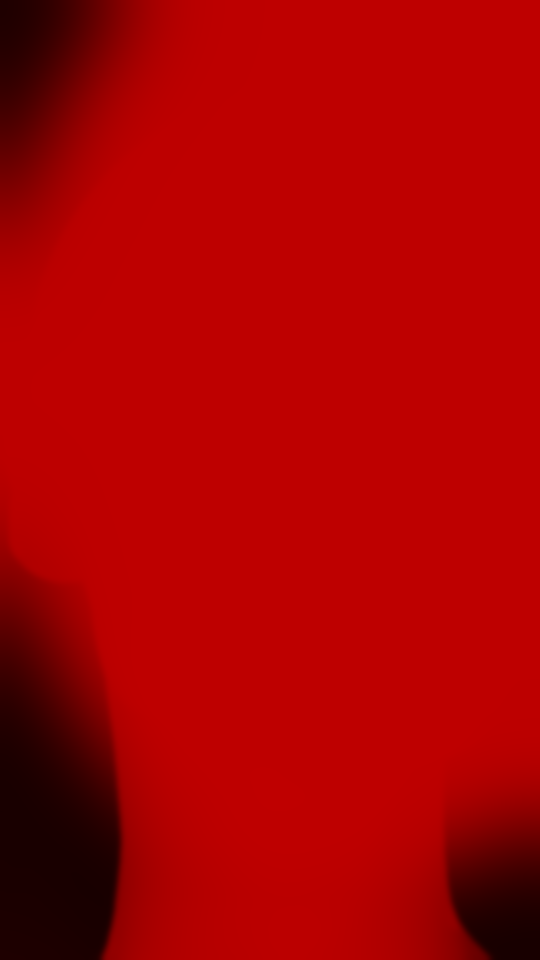
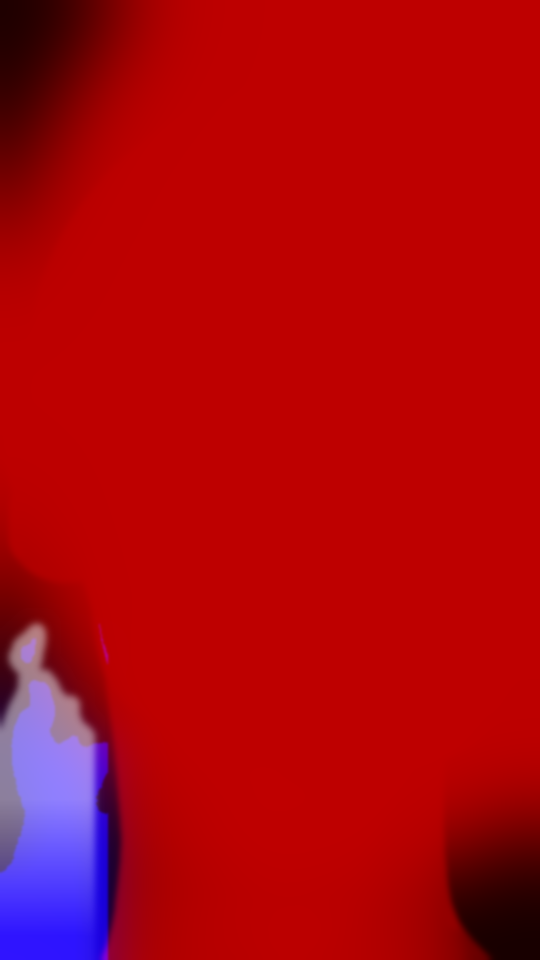
Construct 5: the opener's fire sways and flickers
Claude-Session: https://claude.ai/code/session_01SMXJ3n3hXtyYoEsmeNdtaT

Changed region(s): [[0.0, 0.625, 0.237, 1.0], [0.1778, 0.6562, 0.2074, 0.6875]]

diff --git a/construct5/index.html b/construct5/index.html
@@ -160,7 +160,7 @@ canvas.gl{position:absolute;inset:0;width:100%;height:100%;display:block;opacity
 <script>
 (()=>{
 'use strict';
-const CFG={"blocks":[{"k":"title","img":"assets/cover.jpg","map":"assets/cover-map.png","aspect":[9,16],"focus":0.745,"camcfg":null,"caps_cfg":[],"zmin":1.0,"stage":true,"fog":0.05,"script":"pan","pan":[1.0,0.5,0.5,1.08,0.5,0.46],"bed":"ruins","bedLv":0.6},{"k":"s1","img":"assets/s1.jpg","map":"assets/s1-map.png","aspect":[9,16],"focus":0.5,"camcfg":{"z":[1.02,1.08],"c0":[0.5,0.5],"c1":[0.5,0.54],"off":[0,0]},"caps_cfg":[{"id":"cap-s1-0","type":"c","auto":[0.389,0.143,0.2679]},{"id":"cap-s1-1","type":"b","auto":[0.794,0.247,0.2381],"spk":{"m":[0.4529,0.4429],"e":[0.4506,0.4185,0.0796,0.056]},"avoid":[[0.379,0.3681,0.1433,0.1008]]}],"zmin":1.02,"fog":0.05,"bed":"ruins","nogl":true,"vaud":"assets/s1-fx.mp3","vlv":0.85},{"k":"s2","img":"assets/s2.jpg","map":"assets/s2-map.png","aspect":[9,16],"focus":0.5,"camcfg":{"z":[1.02,1.08],"c0":[0.5,0.5],"c1":[0.5,0.54],"off":[0,0]},"caps_cfg":[{"id":"cap-s2-0","type":"c","auto":[0.237,0.108,0.3571]}],"zmin":1.02,"fog":0.05,"bed":"ruins","vo":"assets/vo/s2.mp3","nogl":true,"vaud":"assets/s2-fx.mp3","vlv":0.85},{"k":"s3","img":"assets/s3.jpg","map":"assets/s3-map.png","aspect":[9,16],"focus":0.488,"camcfg":{"z":[1.04,1.12],"c0":[0.47,0.5],"c1":[0.54,0.45],"off":[0.005,0.024]},"caps_cfg":[{"id":"cap-s3-0","type":"c","auto":[0.712,0.142,0.2679]}],"zmin":1.04,"fog":0.05,"bed":"ruins","vo":"assets/vo/s3.mp3"},{"k":"s4","img":"assets/s4.jpg","map":"assets/s4-map.png","aspect":[9,16],"focus":0.375,"camcfg":{"z":[1.04,1.12],"c0":[0.53,0.5],"c1":[0.392,0.479],"off":[0.005,0.024]},"caps_cfg":[{"id":"cap-s4-0","type":"c","auto":[0.821,0.086,0.2679]},{"id":"cap-s4-1","type":"b","auto":[0.571,0.298,0.2381],"spk":{"m":[0.3236,0.4887],"e":[0.2839,0.4586,0.0958,0.0675]},"avoid":[[0.1977,0.3978,0.1724,0.1215]]}],"zmin":1.04,"fog":0.05,"bed":"ruins","vo":"assets/vo/s4.mp3"},{"k":"s5","img":"assets/s5.jpg","map":"assets/s5-map.png","aspect":[9,16],"focus":0.5,"camcfg":{"z":[1.02,1.08],"c0":[0.5,0.5],"c1":[0.5,0.54],"off":[0,0]},"caps_cfg":[{"id":"cap-s5-0","type":"c","auto":[0.217,0.084,0.2679]},{"id":"cap-s5-1","type":"c","auto":[0.832,0.728,0.2679]}],"zmin":1.02,"fog":0.05,"bed":"ruins","vo":"assets/vo/s5.mp3","nogl":true,"vaud":"assets/s5-fx.mp3","vlv":0.85},{"k":"s6","img":"assets/s6.jpg","map":"assets/s6-map.png","aspect":[9,16],"focus":0.387,"camcfg":{"z":[1.04,1.12],"c0":[0.5,0.46],"c1":[0.444,0.456],"off":[0.005,0.024]},"caps_cfg":[{"id":"cap-s6-0","type":"c","auto":[0.784,0.105,0.2679]}],"zmin":1.04,"bed":"shore","vo":"assets/vo/s6.mp3"},{"k":"s7","img":"assets/s7.jpg","map":"assets/s7-map.png","aspect":[9,16],"focus":0.663,"camcfg":{"z":[1.04,1.12],"c0":[0.47,0.5],"c1":[0.54,0.45],"off":[0.005,0.024]},"caps_cfg":[{"id":"cap-s7-0","type":"c","auto":[0.82,0.124,0.2976]}],"zmin":1.04,"fog":0.05,"bed":"ruins"},{"k":"s8","img":"assets/s8.jpg","map":"assets/s8-map.png","aspect":[9,16],"focus":0.5,"camcfg":{"z":[1.02,1.08],"c0":[0.5,0.5],"c1":[0.5,0.54],"off":[0,0]},"caps_cfg":[{"id":"cap-s8-0","type":"c","auto":[0.784,0.127,0.3125]}],"zmin":1.02,"rain":0,"bed":"squall","vo":"assets/vo/s8.mp3","nogl":true,"vaud":"assets/s8-fx.mp3","vlv":0.85},{"k":"s9","img":"assets/s9.jpg","map":"assets/s9-map.png","aspect":[9,16],"focus":0.5,"camcfg":{"z":[1.02,1.08],"c0":[0.5,0.5],"c1":[0.5,0.54],"off":[0,0]},"caps_cfg":[{"id":"cap-s9-0","type":"c","auto":[0.723,0.137,0.2679]}],"zmin":1.02,"fog":0.05,"bed":"ruins","nogl":true,"vaud":"assets/s9-fx.mp3","vlv":0.85},{"k":"s10","img":"assets/s10.jpg","map":"assets/s10-map.png","aspect":[9,16],"focus":0.5,"camcfg":{"z":[1.02,1.08],"c0":[0.5,0.5],"c1":[0.5,0.54],"off":[0,0]},"caps_cfg":[{"id":"cap-s10-0","type":"c","auto":[0.27,0.8,0.2976]}],"zmin":1.02,"dust":[0.1,0.0,0.8,0.5],"bed":"camp","nogl":true,"vaud":"assets/s10-fx.mp3","vlv":0.85},{"k":"s11","img":"assets/s11.jpg","map":"assets/s11-map.png","aspect":[9,16],"focus":0.095,"camcfg":{"z":[1.04,1.12],"c0":[0.47,0.5],"c1":[0.318,0.46],"off":[0.005,0.024]},"caps_cfg":[{"id":"cap-s11-0","type":"b","auto":[0.751,0.18,0.2381],"spk":{"m":[0.4981,0.2504],"e":[0.5008,0.2195,0.0725,0.0531]},"avoid":[[0.4355,0.1717,0.1305,0.0956],[0.1295,0.333,0.119,0.0954],[0.0613,0.3611,0.1485,0.1199]]},{"id":"cap-s11-1","type":"b","auto":[0.393,0.762,0.2381],"spk":{"m":[0.55,0.9],"e":[0.58,0.9,0.08,0.05]},"avoid":[[0.4355,0.1717,0.1305,0.0956],[0.1295,0.333,0.119,0.0954],[0.0613,0.3611,0.1485,0.1199]]}],"zmin":1.04,"dust":[0.1,0.0,0.8,0.5],"bed":"camp"},{"k":"s12","img":"assets/s12.jpg","map":"assets/s12-map.png","aspect":[9,16],"focus":0.568,"camcfg":{"z":[1.04,1.12],"c0":[0.53,0.5],"c1":[0.576,0.46],"off":[0.005,0.024]},"caps_cfg":[{"id":"cap-s12-0","type":"b","auto":[0.37,0.24,0.2679],"spk":{"m":[0.6159,0.4678],"e":[0.6522,0.4195,0.1189,0.1013]},"avoid":[[0.5452,0.3283,0.214,0.1823]]}],"zmin":1.04,"dust":[0.1,0.0,0.8,0.5],"bed":"camp"},{"k":"s13","img":"assets/s13.jpg","map":"assets/s13-map.png","aspect":[9,16],"focus":0.561,"camcfg":{"z":[1.04,1.12],"c0":[0.5,0.5],"c1":[0.416,0.539],"off":[0.005,0.024]},"caps_cfg":[{"id":"cap-s13-0","type":"b","auto":[0.557,0.564,0.2381],"spk":{"m":[0.357,0.5922],"e":[0.3311,0.5774,0.0591,0.0408]},"avoid":[[0.5794,0.1248,0.0805,0.0614],[0.2779,0.5407,0.1064,0.0734]]},{"id":"cap-s13-1","type":"b","auto":[0.386,0.14,0.2827],"spk":{"m":[0.6145,0.1739],"e":[0.6196,0.1555,0.0447,0.0341]},"avoid":[[0.5794,0.1248,0.0805,0.0614],[0.2779,0.5407,0.1064,0.0734]]}],"zmin":1.04,"dust":[0.1,0.0,0.8,0.5],"bed":"camp"},{"k":"s14","img":"assets/s14.jpg","map":"assets/s14-map.png","aspect":[9,16],"focus":0.5,"camcfg":{"z":[1.02,1.08],"c0":[0.5,0.5],"c1":[0.5,0.54],"off":[0,0]},"caps_cfg":[{"id":"cap-s14-0","type":"c","auto":[0.207,0.12,0.2679]}],"zmin":1.02,"fog":0.05,"bed":"ruins","nogl":true,"vaud":"assets/s14-fx.mp3","vlv":0.85},{"k":"s15","img":"assets/s15.jpg","map":"assets/s15-map.png","aspect":[9,16],"focus":0.5,"camcfg":{"z":[1.02,1.08],"c0":[0.5,0.5],"c1":[0.5,0.54],"off":[0,0]},"caps_cfg":[{"id":"cap-s15-0","type":"c","auto":[0.207,0.076,0.2679]}],"zmin":1.02,"fog":0.05,"bed":"dream","nogl":true,"vaud":"assets/s15-fx.mp3","vlv":0.85},{"k":"s16","img":"assets/s16.jpg","map":"assets/s16-map.png","aspect":[9,16],"focus":0.451,"camcfg":{"z":[1.04,1.12],"c0":[0.53,0.5],"c1":[0.714,0.445],"off":[0.005,0.024]},"caps_cfg":[{"id":"cap-s16-0","type":"b","auto":[0.376,0.097,0.2381],"spk":{"m":[0.5687,0.162],"e":[0.5746,0.1519,0.0274,0.019]},"avoid":[[0.5499,0.1348,0.0493,0.0342],[0.9003,0.3722,0.0542,0.0344]]}],"zmin":1.04,"fog":0.05,"bed":"ruins","vo":"assets/vo/s16.mp3"},{"k":"s17","img":"assets/s17.jpg","map":"assets/s17-map.png","aspect":[9,16],"focus":0.442,"camcfg":{"z":[1.04,1.12],"c0":[0.5,0.5],"c1":[0.504,0.386],"off":[0.005,0.024]},"caps_cfg":[{"id":"cap-s17-0","type":"b","auto":[0.761,0.224,0.3125],"spk":{"m":[0.516,0.2853],"e":[0.5074,0.2724,0.0379,0.0282]},"avoid":[[0.4733,0.247,0.0682,0.0508]]}],"zmin":1.04,"fog":0.05,"bed":"ruins","vo":"assets/vo/s17.mp3"},{"k":"s18","img":"assets/s18.jpg","map":"assets/s18-map.png","aspect":[9,16],"focus":0.26,"camcfg":{"z":[1.04,1.12],"c0":[0.5,0.46],"c1":[0.383,0.378],"off":[0.005,0.024]},"caps_cfg":[{"id":"cap-s18-0","type":"b","auto":[0.52,0.2,0.2381],"spk":{"m":[0.258,0.207],"e":[0.258,0.236,0.055,0.032]},"avoid":[[0.2269,0.2262,0.0788,0.058],[0.5942,0.2671,0.0749,0.0567]]},{"id":"cap-s18-1","type":"b","auto":[0.798,0.46,0.2381],"spk":{"m":[0.6096,0.3101],"e":[0.6316,0.2955,0.0416,0.0315]},"avoid":[[0.2269,0.2262,0.0788,0.058],[0.5942,0.2671,0.0749,0.0567]]}],"zmin":1.04,"fog":0.05,"bed":"ruins"},{"k":"s19","img":"assets/s19.jpg","map":"assets/s19-map.png","aspect":[9,16],"focus":0.797,"camcfg":{"z":[1.04,1.12],"c0":[0.47,0.5],"c1":[0.54,0.45],"off":[0.005,0.024]},"caps_cfg":[{"id":"cap-s19-0","type":"c","auto":[0.735,0.298,0.2679]}],"zmin":1.04,"bed":"shore"},{"k":"s20","img":"assets/s20.jpg","map":"assets/s20-map.png","aspect":[9,16],"focus":0.304,"camcfg":{"z":[1.04,1.12],"c0":[0.53,0.5],"c1":[0.373,0.46],"off":[0.005,0.024]},"caps_cfg":[{"id":"cap-s20-0","type":"c","auto":[0.27,0.092,0.3274]},{"id":"cap-s20-1","type":"b","auto":[0.258,0.278,0.3571],"spk":{"m":[0.2662,0.4434],"e":[0.246,0.4208,0.0435,0.0432]},"avoid":[[0.2069,0.3819,0.0783,0.0778]]}],"zmin":1.04,"fog":0.05,"bed":"ruins"},{"k":"s21","img":"assets/s21.jpg","map":"assets/s21-map.png","aspect":[9,16],"focus":0.636,"camcfg":{"z":[1.04,1.12],"c0":[0.5,0.5],"c1":[0.5,0.44],"off":[0.005,0.024]},"caps_cfg":[{"id":"cap-s21-0","type":"c","auto":[0.235,0.092,0.2679]}],"zmin":1.04,"fog":0.05,"bed":"ruins","vo":"assets/vo/s21.mp3"},{"k":"s22","img":"assets/s22.jpg","map":"assets/s22-map.png","aspect":[9,16],"focus":0.271,"camcfg":{"z":[1.04,1.12],"c0":[0.5,0.46],"c1":[0.5,0.56],"off":[0.005,0.024]},"caps_cfg":[{"id":"cap-s22-0","type":"b","auto":[0.218,0.164,0.2381],"spk":{"m":[0.441,0.226],"e":[0.4318,0.2201,0.0199,0.0153]}},{"id":"cap-s22-1","type":"b","auto":[0.774,0.125,0.2679],"spk":{"m":[0.59,0.2264],"e":[0.5977,0.2187,0.0226,0.0155]}}],"zmin":1.04,"fog":0.05,"bed":"ruins","vo":"assets/vo/s22.mp3"},{"k":"s23","img":"assets/s23.jpg","map":"assets/s23-map.png","aspect":[9,16],"focus":0.744,"camcfg":{"z":[1.04,1.12],"c0":[0.47,0.5],"c1":[0.54,0.45],"off":[0.005,0.024]},"caps_cfg":[{"id":"cap-s23-0","type":"c","auto":[0.21,0.13,0.2679]}],"zmin":1.04,"bed":"shore"},{"k":"s24","img":"assets/s24.jpg","map":"assets/s24-map.png","aspect":[9,16],"focus":0.605,"camcfg":{"z":[1.04,1.12],"c0":[0.53,0.5],"c1":[0.46,0.47],"off":[0.005,0.024]},"caps_cfg":[{"id":"cap-s24-0","type":"c","auto":[0.24,0.141,0.2679]}],"zmin":1.04,"fog":0.05,"bed":"ruins"},{"k":"s25","img":"assets/s25.jpg","map":"assets/s25-map.png","aspect":[9,16],"focus":0.852,"camcfg":{"z":[1.04,1.12],"c0":[0.5,0.5],"c1":[0.592,0.455],"off":[0.005,0.024]},"caps_cfg":[{"id":"cap-s25-0","type":"b","auto":[0.464,0.202,0.2381],"spk":{"m":[0.6266,0.4649],"e":[0.6839,0.4099,0.1346,0.1133]},"avoid":[[0.5628,0.3079,0.2423,0.2039]]}],"zmin":1.04,"fog":0.05,"bed":"ruins"},{"k":"s26","img":"assets/s26.jpg","map":"assets/s26-map.png","aspect":[9,16],"focus":0.792,"camcfg":{"z":[1.04,1.12],"c0":[0.5,0.46],"c1":[0.5,0.56],"off":[0.005,0.024]},"caps_cfg":[{"id":"cap-s26-0","type":"c","auto":[0.29,0.118,0.2679]}],"zmin":1.04,"bed":"shore"},{"k":"s27","img":"assets/s27.jpg","map":"assets/s27-map.png","aspect":[9,16],"focus":0.715,"camcfg":{"z":[1.04,1.12],"c0":[0.47,0.5],"c1":[0.54,0.45],"off":[0.005,0.024]},"caps_cfg":[{"id":"cap-s27-0","type":"c","auto":[0.523,0.219,0.2679]}],"zmin":1.04,"fog":0.05,"bed":"ruins"},{"k":"s28","img":"assets/s28.jpg","map":"assets/s28-map.png","aspect":[9,16],"focus":0.453,"camcfg":{"z":[1.04,1.12],"c0":[0.53,0.5],"c1":[0.46,0.47],"off":[0.005,0.024]},"caps_cfg":[{"id":"cap-s28-0","type":"b","auto":[0.524,0.215,0.2381],"spk":{"m":[0.3916,0.2648],"e":[0.384,0.2566,0.0233,0.0171]},"avoid":[[0.2233,0.234,0.0522,0.0376]]},{"id":"cap-s28-1","type":"b","auto":[0.254,0.12,0.2381],"spk":{"m":[0.2606,0.2621],"e":[0.2494,0.2528,0.029,0.0209]},"avoid":[[0.2233,0.234,0.0522,0.0376]]}],"zmin":1.04,"bed":"shore"},{"k":"s29","img":"assets/s29.jpg","map":"assets/s29-map.png","aspect":[9,16],"focus":0.889,"camcfg":{"z":[1.04,1.12],"c0":[0.5,0.5],"c1":[0.411,0.58],"off":[0.005,0.024]},"caps_cfg":[{"id":"cap-s29-0","type":"c","auto":[0.239,0.133,0.2679]},{"id":"cap-s29-1","type":"b","auto":[0.585,0.224,0.2381],"spk":{"m":[0.681,0.3442],"e":[0.6935,0.3252,0.048,0.0365]},"avoid":[[0.6503,0.2923,0.0864,0.0657],[0.2452,0.6053,0.1523,0.1087]]},{"id":"cap-s29-2","type":"b","auto":[0.684,0.69,0.2381],"spk":{"m":[0.339,0.6837],"e":[0.3213,0.6597,0.0846,0.0604]},"avoid":[[0.6503,0.2923,0.0864,0.0657],[0.2452,0.6053,0.1523,0.1087]]}],"zmin":1.04,"fog":0.05,"bed":"ruins"},{"k":"s30","img":"assets/s30.jpg","map":"assets/s30-map.png","aspect":[9,16],"focus":0.325,"camcfg":{"z":[1.04,1.12],"c0":[0.5,0.46],"c1":[0.618,0.452],"off":[0.005,0.024]},"caps_cfg":[{"id":"cap-s30-0","type":"b","auto":[0.815,0.289,0.2679],"spk":{"m":[0.7056,0.4351],"e":[0.7367,0.4041,0.0821,0.0582]},"avoid":[[0.6628,0.3517,0.1478,0.1048]]}],"zmin":1.04,"fog":0.05,"bed":"ruins"},{"k":"s31","img":"assets/s31.jpg","map":"assets/s31-map.png","aspect":[9,16],"focus":0.614,"camcfg":{"z":[1.04,1.12],"c0":[0.47,0.5],"c1":[0.54,0.45],"off":[0.005,0.024]},"caps_cfg":[{"id":"cap-s31-0","type":"c","auto":[0.297,0.157,0.2679]}],"zmin":1.04,"bed":"shore"},{"k":"s32","img":"assets/s32.jpg","map":"assets/s32-map.png","aspect":[9,16],"focus":0.724,"camcfg":{"z":[1.04,1.12],"c0":[0.53,0.5],"c1":[0.438,0.335],"off":[0.005,0.024]},"caps_cfg":[{"id":"cap-s32-0","type":"c","auto":[0.652,0.688,0.2679]},{"id":"cap-s32-1","type":"b","auto":[0.6,0.316,0.2976],"spk":{"m":[0.3869,0.1829],"e":[0.3766,0.1692,0.0497,0.0353]},"avoid":[[0.3319,0.1374,0.0895,0.0635]]}],"zmin":1.04,"bed":"shore"},{"k":"s33","img":"assets/s33.jpg","map":"assets/s33-map.png","aspect":[9,16],"focus":0.548,"camcfg":{"z":[1.04,1.12],"c0":[0.5,0.5],"c1":[0.58,0.352],"off":[0.005,0.024]},"caps_cfg":[{"id":"cap-s33-0","type":"c","auto":[0.305,0.071,0.2679]}],"zmin":1.04,"bed":"shore"},{"k":"s34","img":"assets/s34.jpg","map":"assets/s34-map.png","aspect":[9,16],"focus":0.715,"camcfg":{"z":[1.04,1.12],"c0":[0.5,0.46],"c1":[0.569,0.605],"off":[0.005,0.024]},"caps_cfg":[{"id":"cap-s34-0","type":"c","auto":[0.196,0.081,0.2679]},{"id":"cap-s34-1","type":"b","auto":[0.626,0.093,0.2381],"spk":{"m":[0.8249,0.1784],"e":[0.8208,0.1544,0.0537,0.0409]},"avoid":[[0.7725,0.1176,0.0967,0.0736],[0.5603,0.6561,0.1541,0.1073],[0.3065,0.0035,0.079,0.0502]]},{"id":"cap-s34-2","type":"b","auto":[0.452,0.551,0.2381],"spk":{"m":[0.6419,0.7395],"e":[0.6373,0.7097,0.0856,0.0596]},"avoid":[[0.7725,0.1176,0.0967,0.0736],[0.5603,0.6561,0.1541,0.1073],[0.3065,0.0035,0.079,0.0502]]}],"zmin":1.04,"bed":"shore"},{"k":"s35","img":"assets/s35.jpg","map":"assets/s35-map.png","aspect":[9,16],"focus":0.553,"camcfg":{"z":[1.04,1.12],"c0":[0.47,0.5],"c1":[0.413,0.395],"off":[0.005,0.024]},"caps_cfg":[{"id":"cap-s35-0","type":"b","auto":[0.625,0.223,0.2381],"spk":{"m":[0.6531,0.3757],"e":[0.6611,0.3685,0.0212,0.0145]},"avoid":[[0.2938,0.2651,0.065,0.0502]]},{"id":"cap-s35-1","type":"b","auto":[0.433,0.403,0.2381],"spk":{"m":[0.3372,0.3014],"e":[0.3263,0.2902,0.0361,0.0279]},"avoid":[[0.2938,0.2651,0.065,0.0502]]},{"id":"cap-s35-2","type":"c","auto":[0.269,0.105,0.3571]}],"zmin":1.04,"fog":0.05,"bed":"ruins"},{"k":"s36","img":"assets/s36.jpg","map":"assets/s36-map.png","aspect":[9,16],"focus":0.422,"camcfg":{"z":[1.04,1.12],"c0":[0.53,0.5],"c1":[0.351,0.34],"off":[0.005,0.024]},"caps_cfg":[{"id":"cap-s36-0","type":"b","auto":[0.469,0.105,0.2679],"spk":{"m":[0.1926,0.208],"e":[0.2025,0.1798,0.0541,0.046]},"avoid":[[0.1538,0.1384,0.0974,0.0828],[0.6461,0.4126,0.0779,0.0554]]},{"id":"cap-s36-1","type":"b","auto":[0.802,0.278,0.2679],"spk":{"m":[0.6753,0.4526],"e":[0.6851,0.4403,0.0433,0.0308]},"avoid":[[0.1538,0.1384,0.0974,0.0828],[0.6461,0.4126,0.0779,0.0554]]}],"zmin":1.04,"fog":0.05,"bed":"ruins"},{"k":"s37","img":"assets/s37.jpg","map":"assets/s37-map.png","aspect":[9,16],"focus":0.77,"camcfg":{"z":[1.04,1.12],"c0":[0.5,0.5],"c1":[0.577,0.458],"off":[0.005,0.024]},"caps_cfg":[{"id":"cap-s37-0","type":"b","auto":[0.736,0.277,0.2381],"spk":{"m":[0.6466,0.4338],"e":[0.6548,0.4162,0.0459,0.0358]},"avoid":[[0.6135,0.384,0.0826,0.0644]]}],"zmin":1.04,"bed":"alley"}],"fsk":{"c":1.25,"b":1.08}};
+const CFG={"blocks":[{"k":"title","img":"assets/cover.jpg","map":"assets/cover-map.png","aspect":[9,16],"focus":0.745,"camcfg":null,"caps_cfg":[],"zmin":1.0,"stage":true,"gmode":3,"fog":0.05,"script":"pan","pan":[1.0,0.5,0.5,1.08,0.5,0.46],"gtint":[1.0,0.55,0.2],"bed":"ruins","bedLv":0.6,"fire":1},{"k":"s1","img":"assets/s1.jpg","map":"assets/s1-map.png","aspect":[9,16],"focus":0.5,"camcfg":{"z":[1.02,1.08],"c0":[0.5,0.5],"c1":[0.5,0.54],"off":[0,0]},"caps_cfg":[{"id":"cap-s1-0","type":"c","auto":[0.389,0.143,0.2679]},{"id":"cap-s1-1","type":"b","auto":[0.794,0.247,0.2381],"spk":{"m":[0.4529,0.4429],"e":[0.4506,0.4185,0.0796,0.056]},"avoid":[[0.379,0.3681,0.1433,0.1008]]}],"zmin":1.02,"fog":0.05,"bed":"ruins","nogl":true,"vaud":"assets/s1-fx.mp3","vlv":0.85},{"k":"s2","img":"assets/s2.jpg","map":"assets/s2-map.png","aspect":[9,16],"focus":0.5,"camcfg":{"z":[1.02,1.08],"c0":[0.5,0.5],"c1":[0.5,0.54],"off":[0,0]},"caps_cfg":[{"id":"cap-s2-0","type":"c","auto":[0.237,0.108,0.3571]}],"zmin":1.02,"fog":0.05,"bed":"ruins","vo":"assets/vo/s2.mp3","nogl":true,"vaud":"assets/s2-fx.mp3","vlv":0.85},{"k":"s3","img":"assets/s3.jpg","map":"assets/s3-map.png","aspect":[9,16],"focus":0.488,"camcfg":{"z":[1.04,1.12],"c0":[0.47,0.5],"c1":[0.54,0.45],"off":[0.005,0.024]},"caps_cfg":[{"id":"cap-s3-0","type":"c","auto":[0.712,0.142,0.2679]}],"zmin":1.04,"fog":0.05,"bed":"ruins","vo":"assets/vo/s3.mp3"},{"k":"s4","img":"assets/s4.jpg","map":"assets/s4-map.png","aspect":[9,16],"focus":0.375,"camcfg":{"z":[1.04,1.12],"c0":[0.53,0.5],"c1":[0.392,0.479],"off":[0.005,0.024]},"caps_cfg":[{"id":"cap-s4-0","type":"c","auto":[0.821,0.086,0.2679]},{"id":"cap-s4-1","type":"b","auto":[0.571,0.298,0.2381],"spk":{"m":[0.3236,0.4887],"e":[0.2839,0.4586,0.0958,0.0675]},"avoid":[[0.1977,0.3978,0.1724,0.1215]]}],"zmin":1.04,"fog":0.05,"bed":"ruins","vo":"assets/vo/s4.mp3"},{"k":"s5","img":"assets/s5.jpg","map":"assets/s5-map.png","aspect":[9,16],"focus":0.5,"camcfg":{"z":[1.02,1.08],"c0":[0.5,0.5],"c1":[0.5,0.54],"off":[0,0]},"caps_cfg":[{"id":"cap-s5-0","type":"c","auto":[0.217,0.084,0.2679]},{"id":"cap-s5-1","type":"c","auto":[0.832,0.728,0.2679]}],"zmin":1.02,"fog":0.05,"bed":"ruins","vo":"assets/vo/s5.mp3","nogl":true,"vaud":"assets/s5-fx.mp3","vlv":0.85},{"k":"s6","img":"assets/s6.jpg","map":"assets/s6-map.png","aspect":[9,16],"focus":0.387,"camcfg":{"z":[1.04,1.12],"c0":[0.5,0.46],"c1":[0.444,0.456],"off":[0.005,0.024]},"caps_cfg":[{"id":"cap-s6-0","type":"c","auto":[0.784,0.105,0.2679]}],"zmin":1.04,"bed":"shore","vo":"assets/vo/s6.mp3"},{"k":"s7","img":"assets/s7.jpg","map":"assets/s7-map.png","aspect":[9,16],"focus":0.663,"camcfg":{"z":[1.04,1.12],"c0":[0.47,0.5],"c1":[0.54,0.45],"off":[0.005,0.024]},"caps_cfg":[{"id":"cap-s7-0","type":"c","auto":[0.82,0.124,0.2976]}],"zmin":1.04,"fog":0.05,"bed":"ruins"},{"k":"s8","img":"assets/s8.jpg","map":"assets/s8-map.png","aspect":[9,16],"focus":0.5,"camcfg":{"z":[1.02,1.08],"c0":[0.5,0.5],"c1":[0.5,0.54],"off":[0,0]},"caps_cfg":[{"id":"cap-s8-0","type":"c","auto":[0.784,0.127,0.3125]}],"zmin":1.02,"rain":0,"bed":"squall","vo":"assets/vo/s8.mp3","nogl":true,"vaud":"assets/s8-fx.mp3","vlv":0.85},{"k":"s9","img":"assets/s9.jpg","map":"assets/s9-map.png","aspect":[9,16],"focus":0.5,"camcfg":{"z":[1.02,1.08],"c0":[0.5,0.5],"c1":[0.5,0.54],"off":[0,0]},"caps_cfg":[{"id":"cap-s9-0","type":"c","auto":[0.723,0.137,0.2679]}],"zmin":1.02,"fog":0.05,"bed":"ruins","nogl":true,"vaud":"assets/s9-fx.mp3","vlv":0.85},{"k":"s10","img":"assets/s10.jpg","map":"assets/s10-map.png","aspect":[9,16],"focus":0.5,"camcfg":{"z":[1.02,1.08],"c0":[0.5,0.5],"c1":[0.5,0.54],"off":[0,0]},"caps_cfg":[{"id":"cap-s10-0","type":"c","auto":[0.27,0.8,0.2976]}],"zmin":1.02,"dust":[0.1,0.0,0.8,0.5],"bed":"camp","nogl":true,"vaud":"assets/s10-fx.mp3","vlv":0.85},{"k":"s11","img":"assets/s11.jpg","map":"assets/s11-map.png","aspect":[9,16],"focus":0.095,"camcfg":{"z":[1.04,1.12],"c0":[0.47,0.5],"c1":[0.318,0.46],"off":[0.005,0.024]},"caps_cfg":[{"id":"cap-s11-0","type":"b","auto":[0.751,0.18,0.2381],"spk":{"m":[0.4981,0.2504],"e":[0.5008,0.2195,0.0725,0.0531]},"avoid":[[0.4355,0.1717,0.1305,0.0956],[0.1295,0.333,0.119,0.0954],[0.0613,0.3611,0.1485,0.1199]]},{"id":"cap-s11-1","type":"b","auto":[0.393,0.762,0.2381],"spk":{"m":[0.55,0.9],"e":[0.58,0.9,0.08,0.05]},"avoid":[[0.4355,0.1717,0.1305,0.0956],[0.1295,0.333,0.119,0.0954],[0.0613,0.3611,0.1485,0.1199]]}],"zmin":1.04,"dust":[0.1,0.0,0.8,0.5],"bed":"camp"},{"k":"s12","img":"assets/s12.jpg","map":"assets/s12-map.png","aspect":[9,16],"focus":0.568,"camcfg":{"z":[1.04,1.12],"c0":[0.53,0.5],"c1":[0.576,0.46],"off":[0.005,0.024]},"caps_cfg":[{"id":"cap-s12-0","type":"b","auto":[0.37,0.24,0.2679],"spk":{"m":[0.6159,0.4678],"e":[0.6522,0.4195,0.1189,0.1013]},"avoid":[[0.5452,0.3283,0.214,0.1823]]}],"zmin":1.04,"dust":[0.1,0.0,0.8,0.5],"bed":"camp"},{"k":"s13","img":"assets/s13.jpg","map":"assets/s13-map.png","aspect":[9,16],"focus":0.561,"camcfg":{"z":[1.04,1.12],"c0":[0.5,0.5],"c1":[0.416,0.539],"off":[0.005,0.024]},"caps_cfg":[{"id":"cap-s13-0","type":"b","auto":[0.557,0.564,0.2381],"spk":{"m":[0.357,0.5922],"e":[0.3311,0.5774,0.0591,0.0408]},"avoid":[[0.5794,0.1248,0.0805,0.0614],[0.2779,0.5407,0.1064,0.0734]]},{"id":"cap-s13-1","type":"b","auto":[0.386,0.14,0.2827],"spk":{"m":[0.6145,0.1739],"e":[0.6196,0.1555,0.0447,0.0341]},"avoid":[[0.5794,0.1248,0.0805,0.0614],[0.2779,0.5407,0.1064,0.0734]]}],"zmin":1.04,"dust":[0.1,0.0,0.8,0.5],"bed":"camp"},{"k":"s14","img":"assets/s14.jpg","map":"assets/s14-map.png","aspect":[9,16],"focus":0.5,"camcfg":{"z":[1.02,1.08],"c0":[0.5,0.5],"c1":[0.5,0.54],"off":[0,0]},"caps_cfg":[{"id":"cap-s14-0","type":"c","auto":[0.207,0.12,0.2679]}],"zmin":1.02,"fog":0.05,"bed":"ruins","nogl":true,"vaud":"assets/s14-fx.mp3","vlv":0.85},{"k":"s15","img":"assets/s15.jpg","map":"assets/s15-map.png","aspect":[9,16],"focus":0.5,"camcfg":{"z":[1.02,1.08],"c0":[0.5,0.5],"c1":[0.5,0.54],"off":[0,0]},"caps_cfg":[{"id":"cap-s15-0","type":"c","auto":[0.207,0.076,0.2679]}],"zmin":1.02,"fog":0.05,"bed":"dream","nogl":true,"vaud":"assets/s15-fx.mp3","vlv":0.85},{"k":"s16","img":"assets/s16.jpg","map":"assets/s16-map.png","aspect":[9,16],"focus":0.451,"camcfg":{"z":[1.04,1.12],"c0":[0.53,0.5],"c1":[0.714,0.445],"off":[0.005,0.024]},"caps_cfg":[{"id":"cap-s16-0","type":"b","auto":[0.376,0.097,0.2381],"spk":{"m":[0.5687,0.162],"e":[0.5746,0.1519,0.0274,0.019]},"avoid":[[0.5499,0.1348,0.0493,0.0342],[0.9003,0.3722,0.0542,0.0344]]}],"zmin":1.04,"fog":0.05,"bed":"ruins","vo":"assets/vo/s16.mp3"},{"k":"s17","img":"assets/s17.jpg","map":"assets/s17-map.png","aspect":[9,16],"focus":0.442,"camcfg":{"z":[1.04,1.12],"c0":[0.5,0.5],"c1":[0.504,0.386],"off":[0.005,0.024]},"caps_cfg":[{"id":"cap-s17-0","type":"b","auto":[0.761,0.224,0.3125],"spk":{"m":[0.516,0.2853],"e":[0.5074,0.2724,0.0379,0.0282]},"avoid":[[0.4733,0.247,0.0682,0.0508]]}],"zmin":1.04,"fog":0.05,"bed":"ruins","vo":"assets/vo/s17.mp3"},{"k":"s18","img":"assets/s18.jpg","map":"assets/s18-map.png","aspect":[9,16],"focus":0.26,"camcfg":{"z":[1.04,1.12],"c0":[0.5,0.46],"c1":[0.383,0.378],"off":[0.005,0.024]},"caps_cfg":[{"id":"cap-s18-0","type":"b","auto":[0.52,0.2,0.2381],"spk":{"m":[0.258,0.207],"e":[0.258,0.236,0.055,0.032]},"avoid":[[0.2269,0.2262,0.0788,0.058],[0.5942,0.2671,0.0749,0.0567]]},{"id":"cap-s18-1","type":"b","auto":[0.798,0.46,0.2381],"spk":{"m":[0.6096,0.3101],"e":[0.6316,0.2955,0.0416,0.0315]},"avoid":[[0.2269,0.2262,0.0788,0.058],[0.5942,0.2671,0.0749,0.0567]]}],"zmin":1.04,"fog":0.05,"bed":"ruins"},{"k":"s19","img":"assets/s19.jpg","map":"assets/s19-map.png","aspect":[9,16],"focus":0.797,"camcfg":{"z":[1.04,1.12],"c0":[0.47,0.5],"c1":[0.54,0.45],"off":[0.005,0.024]},"caps_cfg":[{"id":"cap-s19-0","type":"c","auto":[0.735,0.298,0.2679]}],"zmin":1.04,"bed":"shore"},{"k":"s20","img":"assets/s20.jpg","map":"assets/s20-map.png","aspect":[9,16],"focus":0.304,"camcfg":{"z":[1.04,1.12],"c0":[0.53,0.5],"c1":[0.373,0.46],"off":[0.005,0.024]},"caps_cfg":[{"id":"cap-s20-0","type":"c","auto":[0.27,0.092,0.3274]},{"id":"cap-s20-1","type":"b","auto":[0.258,0.278,0.3571],"spk":{"m":[0.2662,0.4434],"e":[0.246,0.4208,0.0435,0.0432]},"avoid":[[0.2069,0.3819,0.0783,0.0778]]}],"zmin":1.04,"fog":0.05,"bed":"ruins"},{"k":"s21","img":"assets/s21.jpg","map":"assets/s21-map.png","aspect":[9,16],"focus":0.636,"camcfg":{"z":[1.04,1.12],"c0":[0.5,0.5],"c1":[0.5,0.44],"off":[0.005,0.024]},"caps_cfg":[{"id":"cap-s21-0","type":"c","auto":[0.235,0.092,0.2679]}],"zmin":1.04,"fog":0.05,"bed":"ruins","vo":"assets/vo/s21.mp3"},{"k":"s22","img":"assets/s22.jpg","map":"assets/s22-map.png","aspect":[9,16],"focus":0.271,"camcfg":{"z":[1.04,1.12],"c0":[0.5,0.46],"c1":[0.5,0.56],"off":[0.005,0.024]},"caps_cfg":[{"id":"cap-s22-0","type":"b","auto":[0.218,0.164,0.2381],"spk":{"m":[0.441,0.226],"e":[0.4318,0.2201,0.0199,0.0153]}},{"id":"cap-s22-1","type":"b","auto":[0.774,0.125,0.2679],"spk":{"m":[0.59,0.2264],"e":[0.5977,0.2187,0.0226,0.0155]}}],"zmin":1.04,"fog":0.05,"bed":"ruins","vo":"assets/vo/s22.mp3"},{"k":"s23","img":"assets/s23.jpg","map":"assets/s23-map.png","aspect":[9,16],"focus":0.744,"camcfg":{"z":[1.04,1.12],"c0":[0.47,0.5],"c1":[0.54,0.45],"off":[0.005,0.024]},"caps_cfg":[{"id":"cap-s23-0","type":"c","auto":[0.21,0.13,0.2679]}],"zmin":1.04,"bed":"shore"},{"k":"s24","img":"assets/s24.jpg","map":"assets/s24-map.png","aspect":[9,16],"focus":0.605,"camcfg":{"z":[1.04,1.12],"c0":[0.53,0.5],"c1":[0.46,0.47],"off":[0.005,0.024]},"caps_cfg":[{"id":"cap-s24-0","type":"c","auto":[0.24,0.141,0.2679]}],"zmin":1.04,"fog":0.05,"bed":"ruins"},{"k":"s25","img":"assets/s25.jpg","map":"assets/s25-map.png","aspect":[9,16],"focus":0.852,"camcfg":{"z":[1.04,1.12],"c0":[0.5,0.5],"c1":[0.592,0.455],"off":[0.005,0.024]},"caps_cfg":[{"id":"cap-s25-0","type":"b","auto":[0.464,0.202,0.2381],"spk":{"m":[0.6266,0.4649],"e":[0.6839,0.4099,0.1346,0.1133]},"avoid":[[0.5628,0.3079,0.2423,0.2039]]}],"zmin":1.04,"fog":0.05,"bed":"ruins"},{"k":"s26","img":"assets/s26.jpg","map":"assets/s26-map.png","aspect":[9,16],"focus":0.792,"camcfg":{"z":[1.04,1.12],"c0":[0.5,0.46],"c1":[0.5,0.56],"off":[0.005,0.024]},"caps_cfg":[{"id":"cap-s26-0","type":"c","auto":[0.29,0.118,0.2679]}],"zmin":1.04,"bed":"shore"},{"k":"s27","img":"assets/s27.jpg","map":"assets/s27-map.png","aspect":[9,16],"focus":0.715,"camcfg":{"z":[1.04,1.12],"c0":[0.47,0.5],"c1":[0.54,0.45],"off":[0.005,0.024]},"caps_cfg":[{"id":"cap-s27-0","type":"c","auto":[0.523,0.219,0.2679]}],"zmin":1.04,"fog":0.05,"bed":"ruins"},{"k":"s28","img":"assets/s28.jpg","map":"assets/s28-map.png","aspect":[9,16],"focus":0.453,"camcfg":{"z":[1.04,1.12],"c0":[0.53,0.5],"c1":[0.46,0.47],"off":[0.005,0.024]},"caps_cfg":[{"id":"cap-s28-0","type":"b","auto":[0.524,0.215,0.2381],"spk":{"m":[0.3916,0.2648],"e":[0.384,0.2566,0.0233,0.0171]},"avoid":[[0.2233,0.234,0.0522,0.0376]]},{"id":"cap-s28-1","type":"b","auto":[0.254,0.12,0.2381],"spk":{"m":[0.2606,0.2621],"e":[0.2494,0.2528,0.029,0.0209]},"avoid":[[0.2233,0.234,0.0522,0.0376]]}],"zmin":1.04,"bed":"shore"},{"k":"s29","img":"assets/s29.jpg","map":"assets/s29-map.png","aspect":[9,16],"focus":0.889,"camcfg":{"z":[1.04,1.12],"c0":[0.5,0.5],"c1":[0.411,0.58],"off":[0.005,0.024]},"caps_cfg":[{"id":"cap-s29-0","type":"c","auto":[0.239,0.133,0.2679]},{"id":"cap-s29-1","type":"b","auto":[0.585,0.224,0.2381],"spk":{"m":[0.681,0.3442],"e":[0.6935,0.3252,0.048,0.0365]},"avoid":[[0.6503,0.2923,0.0864,0.0657],[0.2452,0.6053,0.1523,0.1087]]},{"id":"cap-s29-2","type":"b","auto":[0.684,0.69,0.2381],"spk":{"m":[0.339,0.6837],"e":[0.3213,0.6597,0.0846,0.0604]},"avoid":[[0.6503,0.2923,0.0864,0.0657],[0.2452,0.6053,0.1523,0.1087]]}],"zmin":1.04,"fog":0.05,"bed":"ruins"},{"k":"s30","img":"assets/s30.jpg","map":"assets/s30-map.png","aspect":[9,16],"focus":0.325,"camcfg":{"z":[1.04,1.12],"c0":[0.5,0.46],"c1":[0.618,0.452],"off":[0.005,0.024]},"caps_cfg":[{"id":"cap-s30-0","type":"b","auto":[0.815,0.289,0.2679],"spk":{"m":[0.7056,0.4351],"e":[0.7367,0.4041,0.0821,0.0582]},"avoid":[[0.6628,0.3517,0.1478,0.1048]]}],"zmin":1.04,"fog":0.05,"bed":"ruins"},{"k":"s31","img":"assets/s31.jpg","map":"assets/s31-map.png","aspect":[9,16],"focus":0.614,"camcfg":{"z":[1.04,1.12],"c0":[0.47,0.5],"c1":[0.54,0.45],"off":[0.005,0.024]},"caps_cfg":[{"id":"cap-s31-0","type":"c","auto":[0.297,0.157,0.2679]}],"zmin":1.04,"bed":"shore"},{"k":"s32","img":"assets/s32.jpg","map":"assets/s32-map.png","aspect":[9,16],"focus":0.724,"camcfg":{"z":[1.04,1.12],"c0":[0.53,0.5],"c1":[0.438,0.335],"off":[0.005,0.024]},"caps_cfg":[{"id":"cap-s32-0","type":"c","auto":[0.652,0.688,0.2679]},{"id":"cap-s32-1","type":"b","auto":[0.6,0.316,0.2976],"spk":{"m":[0.3869,0.1829],"e":[0.3766,0.1692,0.0497,0.0353]},"avoid":[[0.3319,0.1374,0.0895,0.0635]]}],"zmin":1.04,"bed":"shore"},{"k":"s33","img":"assets/s33.jpg","map":"assets/s33-map.png","aspect":[9,16],"focus":0.548,"camcfg":{"z":[1.04,1.12],"c0":[0.5,0.5],"c1":[0.58,0.352],"off":[0.005,0.024]},"caps_cfg":[{"id":"cap-s33-0","type":"c","auto":[0.305,0.071,0.2679]}],"zmin":1.04,"bed":"shore"},{"k":"s34","img":"assets/s34.jpg","map":"assets/s34-map.png","aspect":[9,16],"focus":0.715,"camcfg":{"z":[1.04,1.12],"c0":[0.5,0.46],"c1":[0.569,0.605],"off":[0.005,0.024]},"caps_cfg":[{"id":"cap-s34-0","type":"c","auto":[0.196,0.081,0.2679]},{"id":"cap-s34-1","type":"b","auto":[0.626,0.093,0.2381],"spk":{"m":[0.8249,0.1784],"e":[0.8208,0.1544,0.0537,0.0409]},"avoid":[[0.7725,0.1176,0.0967,0.0736],[0.5603,0.6561,0.1541,0.1073],[0.3065,0.0035,0.079,0.0502]]},{"id":"cap-s34-2","type":"b","auto":[0.452,0.551,0.2381],"spk":{"m":[0.6419,0.7395],"e":[0.6373,0.7097,0.0856,0.0596]},"avoid":[[0.7725,0.1176,0.0967,0.0736],[0.5603,0.6561,0.1541,0.1073],[0.3065,0.0035,0.079,0.0502]]}],"zmin":1.04,"bed":"shore"},{"k":"s35","img":"assets/s35.jpg","map":"assets/s35-map.png","aspect":[9,16],"focus":0.553,"camcfg":{"z":[1.04,1.12],"c0":[0.47,0.5],"c1":[0.413,0.395],"off":[0.005,0.024]},"caps_cfg":[{"id":"cap-s35-0","type":"b","auto":[0.625,0.223,0.2381],"spk":{"m":[0.6531,0.3757],"e":[0.6611,0.3685,0.0212,0.0145]},"avoid":[[0.2938,0.2651,0.065,0.0502]]},{"id":"cap-s35-1","type":"b","auto":[0.433,0.403,0.2381],"spk":{"m":[0.3372,0.3014],"e":[0.3263,0.2902,0.0361,0.0279]},"avoid":[[0.2938,0.2651,0.065,0.0502]]},{"id":"cap-s35-2","type":"c","auto":[0.269,0.105,0.3571]}],"zmin":1.04,"fog":0.05,"bed":"ruins"},{"k":"s36","img":"assets/s36.jpg","map":"assets/s36-map.png","aspect":[9,16],"focus":0.422,"camcfg":{"z":[1.04,1.12],"c0":[0.53,0.5],"c1":[0.351,0.34],"off":[0.005,0.024]},"caps_cfg":[{"id":"cap-s36-0","type":"b","auto":[0.469,0.105,0.2679],"spk":{"m":[0.1926,0.208],"e":[0.2025,0.1798,0.0541,0.046]},"avoid":[[0.1538,0.1384,0.0974,0.0828],[0.6461,0.4126,0.0779,0.0554]]},{"id":"cap-s36-1","type":"b","auto":[0.802,0.278,0.2679],"spk":{"m":[0.6753,0.4526],"e":[0.6851,0.4403,0.0433,0.0308]},"avoid":[[0.1538,0.1384,0.0974,0.0828],[0.6461,0.4126,0.0779,0.0554]]}],"zmin":1.04,"fog":0.05,"bed":"ruins"},{"k":"s37","img":"assets/s37.jpg","map":"assets/s37-map.png","aspect":[9,16],"focus":0.77,"camcfg":{"z":[1.04,1.12],"c0":[0.5,0.5],"c1":[0.577,0.458],"off":[0.005,0.024]},"caps_cfg":[{"id":"cap-s37-0","type":"b","auto":[0.736,0.277,0.2381],"spk":{"m":[0.6466,0.4338],"e":[0.6548,0.4162,0.0459,0.0358]},"avoid":[[0.6135,0.384,0.0826,0.0644]]}],"zmin":1.04,"bed":"alley"}],"fsk":{"c":1.25,"b":1.08}};
 const RM=matchMedia('(prefers-reduced-motion: reduce)').matches;
 const DPR=Math.min(2,window.devicePixelRatio||1);
 const POOL=4;
